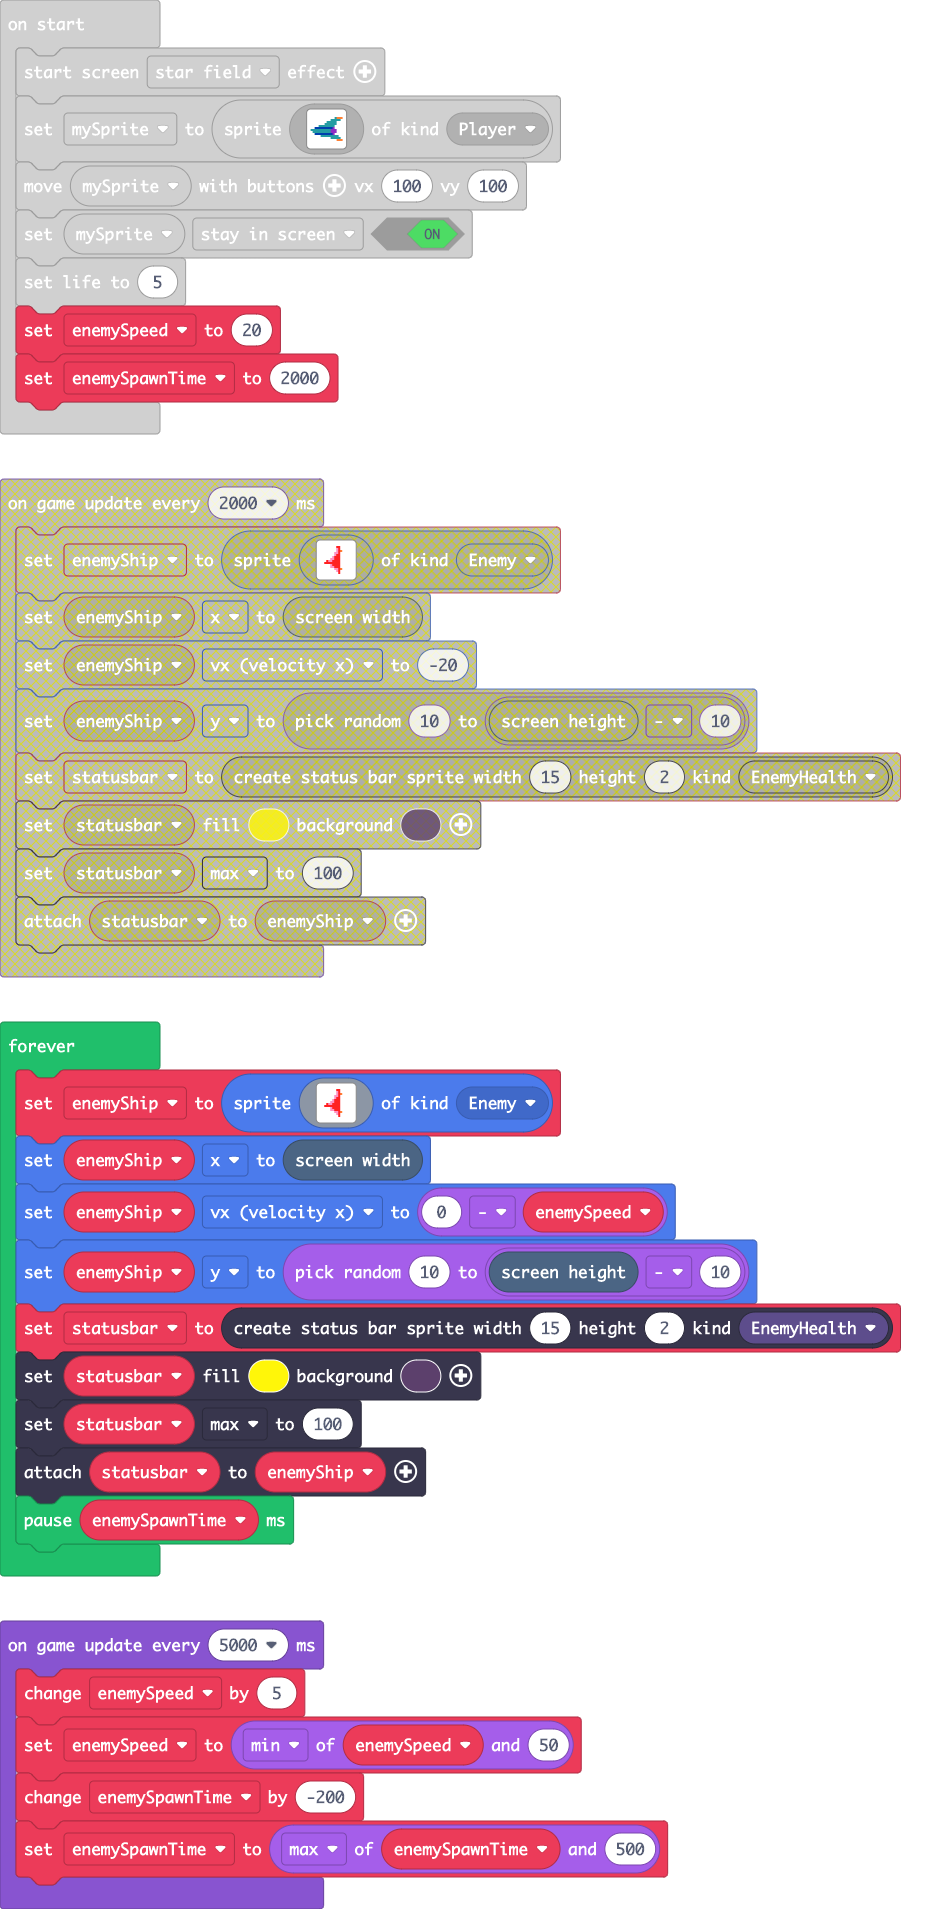
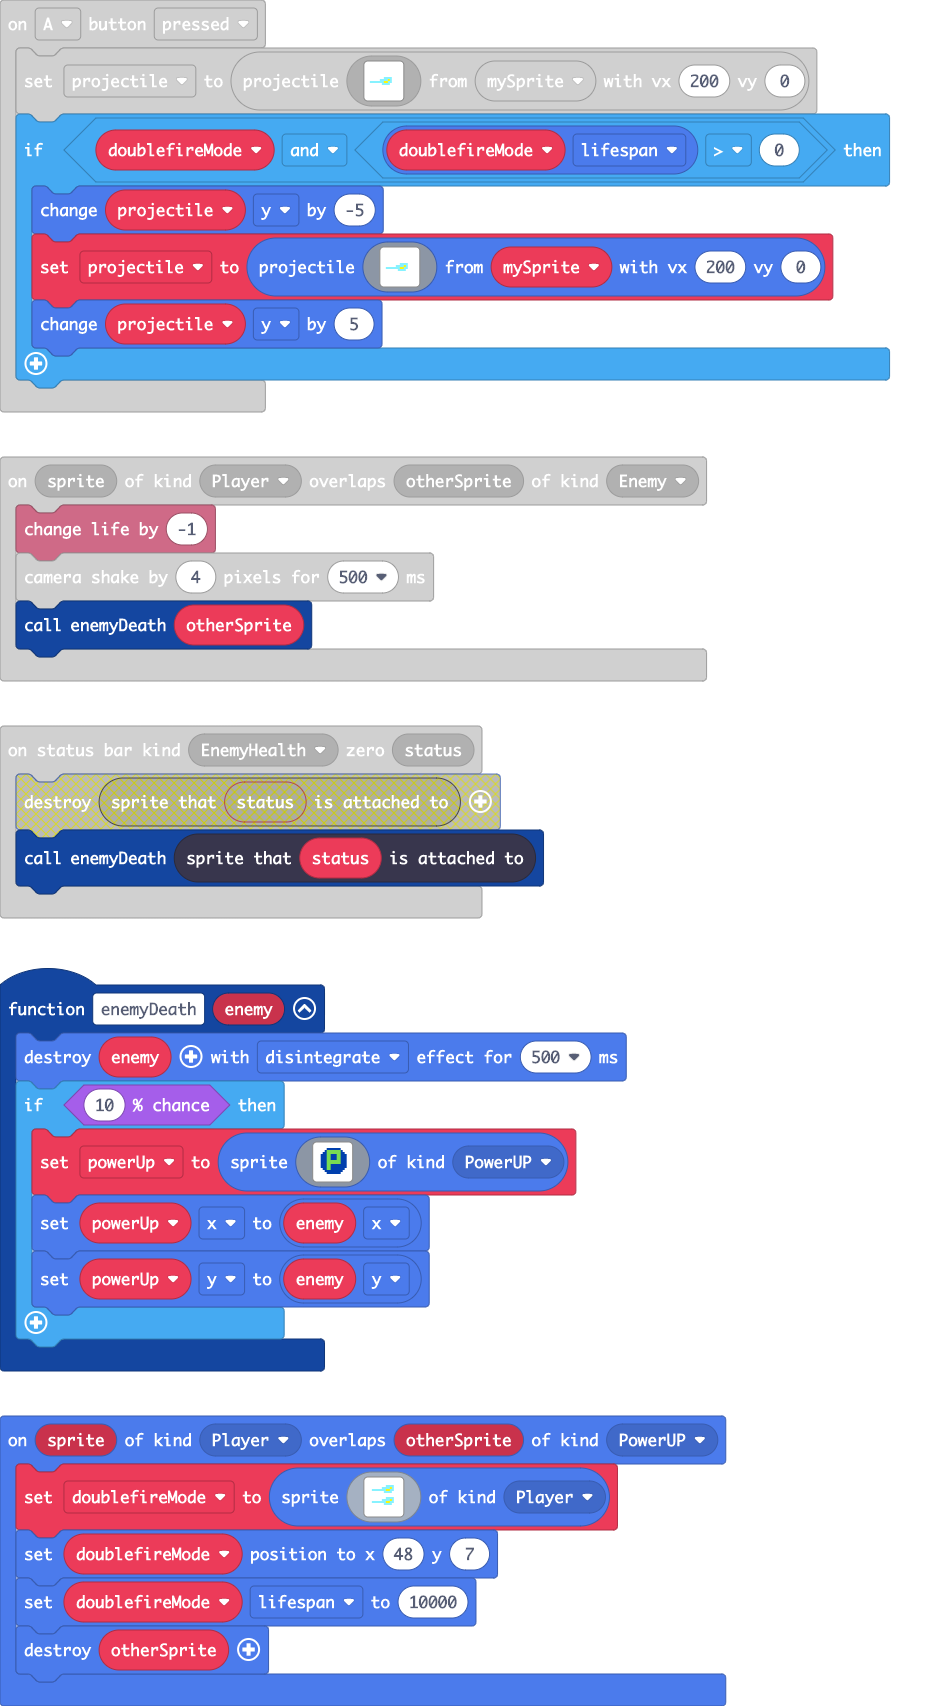
add double-fire mode power up

diff --git a/main.ts b/main.ts
@@ -1,3 +1,6 @@
+namespace SpriteKind {
+    export const PowerUP = SpriteKind.create()
+}
 controller.A.onEvent(ControllerButtonEvent.Pressed, function () {
     projectile = sprites.createProjectileFromSprite(img`
         . . . . . . . . . . . . . . . . 
@@ -17,9 +20,79 @@ controller.A.onEvent(ControllerButtonEvent.Pressed, function () {
         . . . . . . . . . . . . . . . . 
         . . . . . . . . . . . . . . . . 
         `, mySprite, 200, 0)
+    if (doublefireMode && doublefireMode.lifespan > 0) {
+        projectile.y += -5
+        projectile = sprites.createProjectileFromSprite(img`
+            . . . . . . . . . . . . . . . . 
+            . . . . . . . . . . . . . . . . 
+            . . . . . . . . . . . . . . . . 
+            . . . . . . . . . . . . . . . . 
+            . . . . . . . . . . . . . . . . 
+            . . . . . . . . . . . . . . . . 
+            . . . . . . . . 9 9 9 9 . . . . 
+            . . . . . . 9 9 9 9 5 9 . . . . 
+            . 9 9 9 9 9 9 9 5 5 9 9 . . . . 
+            . . . . . . . 9 9 9 9 . . . . . 
+            . . . . . . . . . . . . . . . . 
+            . . . . . . . . . . . . . . . . 
+            . . . . . . . . . . . . . . . . 
+            . . . . . . . . . . . . . . . . 
+            . . . . . . . . . . . . . . . . 
+            . . . . . . . . . . . . . . . . 
+            `, mySprite, 200, 0)
+        projectile.y += 5
+    }
 })
 statusbars.onZero(StatusBarKind.EnemyHealth, function (status) {
-    status.spriteAttachedTo().destroy()
+    enemyDeath(status.spriteAttachedTo())
+})
+function enemyDeath (enemy: Sprite) {
+    enemy.destroy(effects.disintegrate, 500)
+    if (Math.percentChance(10)) {
+        powerUp = sprites.create(img`
+            . . . . . . . . . . . . . . . . 
+            . . . . . 8 8 8 8 8 8 8 . . . . 
+            . . . . 8 7 7 7 7 7 7 7 8 . . . 
+            . . . 8 8 7 7 7 7 7 7 7 8 8 . . 
+            . . 8 8 8 7 7 8 8 8 7 7 8 8 8 . 
+            . . 8 8 8 7 7 8 8 8 7 7 8 8 8 . 
+            . . 8 8 8 7 7 8 8 8 7 7 8 8 8 . 
+            . . 8 8 8 7 7 7 7 7 7 7 8 8 8 . 
+            . . 8 8 8 7 7 7 7 7 7 7 8 8 8 . 
+            . . 8 8 8 7 7 8 8 8 8 8 8 8 8 . 
+            . . 8 8 8 7 7 8 8 8 8 8 8 8 8 . 
+            . . . 8 8 7 7 8 8 8 8 8 8 8 . . 
+            . . . . 8 8 8 8 8 8 8 8 8 . . . 
+            . . . . . 8 8 8 8 8 8 8 . . . . 
+            . . . . . . . . . . . . . . . . 
+            . . . . . . . . . . . . . . . . 
+            `, SpriteKind.PowerUP)
+        powerUp.x = enemy.x
+        powerUp.y = enemy.y
+    }
+}
+sprites.onOverlap(SpriteKind.Player, SpriteKind.PowerUP, function (sprite, otherSprite) {
+    doublefireMode = sprites.create(img`
+        . . . . . . . . . . . . . . . . 
+        . . . . . . . . . . . . . . . . 
+        . . . . . . . . . 9 9 9 9 . . . 
+        . . . . . . . 9 9 9 9 5 9 . . . 
+        . . 9 9 9 9 9 9 9 5 5 9 9 . . . 
+        . . . . . . . . 9 9 9 9 . . . . 
+        . . . . . . . . . . . . . . . . 
+        . . . . . . . . . . . . . . . . 
+        . . . . . . . . . 9 9 9 9 . . . 
+        . . . . . . . 9 9 9 9 5 9 . . . 
+        . . 9 9 9 9 9 9 9 5 5 9 9 . . . 
+        . . . . . . . . 9 9 9 9 . . . . 
+        . . . . . . . . . . . . . . . . 
+        . . . . . . . . . . . . . . . . 
+        . . . . . . . . . . . . . . . . 
+        . . . . . . . . . . . . . . . . 
+        `, SpriteKind.Player)
+    doublefireMode.setPosition(48, 7)
+    doublefireMode.lifespan = 10000
+    otherSprite.destroy()
 })
 sprites.onOverlap(SpriteKind.Projectile, SpriteKind.Enemy, function (sprite, otherSprite) {
     sprite.destroy()
@@ -28,11 +101,13 @@ sprites.onOverlap(SpriteKind.Projectile, SpriteKind.Enemy, function (sprite, oth
 })
 sprites.onOverlap(SpriteKind.Player, SpriteKind.Enemy, function (sprite, otherSprite) {
     info.changeLifeBy(-1)
-    otherSprite.destroy(effects.disintegrate, 500)
     scene.cameraShake(4, 500)
+    enemyDeath(otherSprite)
 })
 let statusbar: StatusBarSprite = null
 let enemyShip: Sprite = null
+let powerUp: Sprite = null
+let doublefireMode: Sprite = null
 let projectile: Sprite = null
 let mySprite: Sprite = null
 effects.starField.startScreenEffect()
